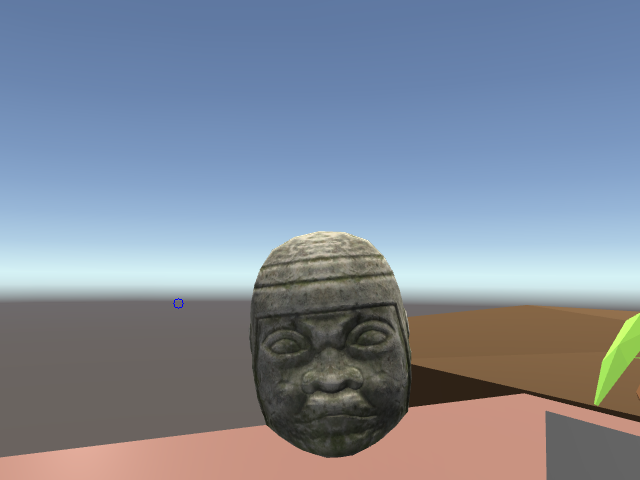
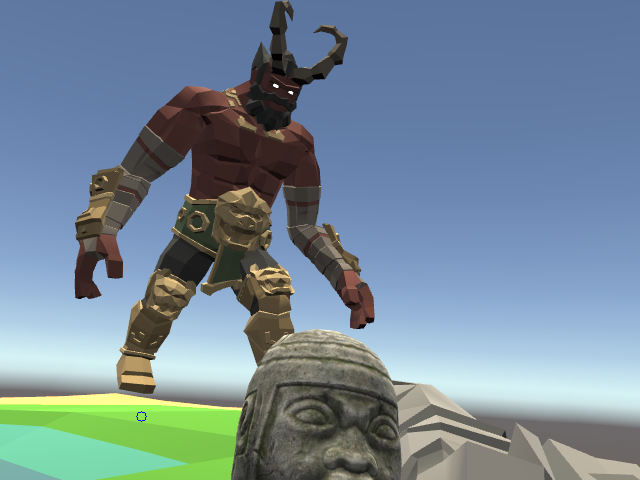
Interactions + Picture with only head and plane

diff --git a/Assets/Scripts/WebCamDisplay.cs b/Assets/Scripts/WebCamDisplay.cs
@@ -22,9 +22,9 @@
         void Awake()
         {
             selfieCam = GameObject.Find("SelfieCamera").GetComponent<Camera>();
-            selfieCam2 = GameObject.Find("SelfieCamera2").GetComponent<Camera>();
[3 lines of base64/hex data omitted]
 
             //MouseSelector.onPointsSelected += removeUser;
             Handler.takeSelfie += takeIRLSelfie;

diff --git a/Assets/Scripts/Environment Scripts/Sword.cs b/Assets/Scripts/Environment Scripts/Sword.cs
@@ -5,7 +5,6 @@ using UnityEngine;
 public class Sword : MonoBehaviour
 {
     public TriggerAnimations animationTrigger;
-    public SkinnedMeshRenderer leftControllerRenderer;
     public GameObject pullParticles;
     public GameObject pushParticles;
 
@@ -20,7 +19,11 @@ public class Sword : MonoBehaviour
             transform.localScale = new Vector3(0.5f, 0.5f, 0.5f);
             transform.localPosition = Vector3.zero;
             gameObject.transform.rotation = other.transform.rotation;
-            leftControllerRenderer.enabled = false;
+
+        }
+        else if (other.CompareTag("Demon"))
+        {
+            Destroy(gameObject);
         }
     }
 }

diff --git a/Assets/Scripts/Environment Scripts/ControllerGrab.cs b/Assets/Scripts/Environment Scripts/ControllerGrab.cs
@@ -1,0 +1,23 @@
+using System.Collections;
+using System.Collections.Generic;
+using UnityEngine;
+
+public class ControllerGrab : MonoBehaviour
+{
+    private void OnTriggerStay(Collider other)
+    {
+        if (other.gameObject.CompareTag("Grabbable"))
+        {
+            if(OVRInput.Get(OVRInput.Axis1D.PrimaryIndexTrigger) > 0.8f)
+            {
+                other.transform.position = transform.position;
+                other.transform.rotation = transform.rotation;
+            }
+
+            if (OVRInput.GetDown(OVRInput.Button.Four))
+            {
+                Destroy(other.gameObject);
+            }
+        }
+    }
+}

diff --git a/Assets/Scripts/Environment Scripts/TriggerAnimations.cs b/Assets/Scripts/Environment Scripts/TriggerAnimations.cs
@@ -34,7 +34,7 @@ public class TriggerAnimations : MonoBehaviour
 
             demonAnimator.SetTrigger("Punching");
 
-            yield return new WaitForSeconds(1.5f);
+            yield return new WaitForSeconds(0.5f);
 
             golemAnimator.SetTrigger("Death");
         }
